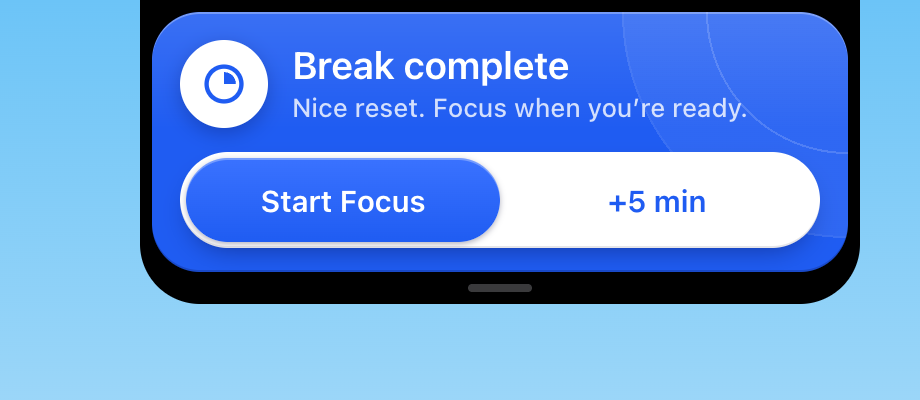
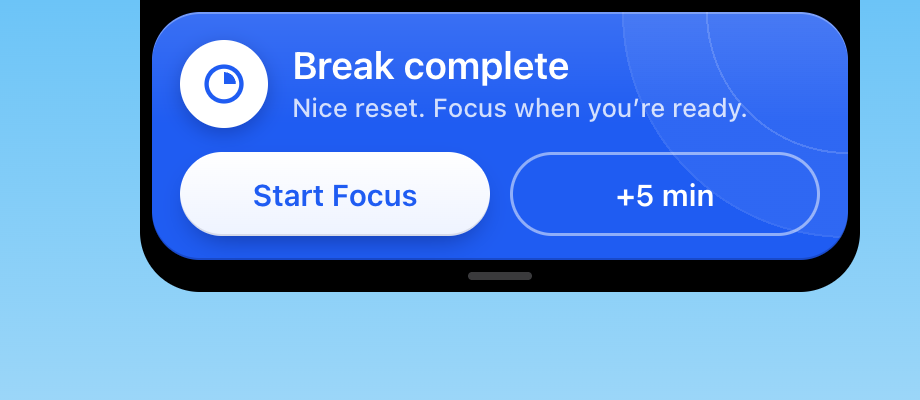
Separate buttons, notes under the clock, round-button menu
- Main and second actions are two separate buttons again (panel and Island)
- Status line under the player removed; short notes show under the clock
- Paused pill pulses smoothly
- Dashboard, Settings and Quit move into a menu at the top right
- Even 10px spacing between cards

Changed region(s): [[0.1522, 0.36, 0.9435, 0.78]]

diff --git a/src/panel.html b/src/panel.html
@@ -13,8 +13,6 @@
   --sheen:linear-gradient(rgba(255,255,255,.55),rgba(255,255,255,0) 55%);
   --bevel:inset 0 1px 0 rgba(255,255,255,.95),inset 0 -1px 0 rgba(20,40,90,.06),0 0 0 .5px rgba(20,40,90,.08),0 1px 2px rgba(20,40,90,.06),0 10px 24px -8px rgba(20,40,90,.16);
   --player:#1f5cf2;--playerIcon:#1f5cf2;--playerShadow:inset 0 1px 0 rgba(255,255,255,.35),0 0 0 .5px rgba(20,40,90,.15),0 16px 30px -12px rgba(31,92,242,.55);
-  --cap:#1f5cf2;--capInk:#fff;--capIn:linear-gradient(#fff,#f2f5fc);--capInInk:#1f5cf2;
-  --capShadow:inset 0 1px 0 rgba(255,255,255,.35),inset 0 -1px 0 rgba(0,0,40,.15),0 8px 18px -6px rgba(31,92,242,.55);--capInShadow:inset 0 1px 0 #fff,0 1px 3px rgba(0,0,40,.18);
   --chip:linear-gradient(#fff,#f1f3f8);--chipShadow:inset 0 1px 0 #fff,0 0 0 .5px rgba(20,40,90,.1),0 2px 6px rgba(20,40,90,.1);--trackBg:rgba(255,255,255,.7);--track:inset 0 1px 2px rgba(20,40,90,.12)}
 @media (prefers-color-scheme: dark){:root{
   --bg:#161616;--ink:#f2f2f2;--muted:#8a8a8a;--card:linear-gradient(#222,#1c1c1c);--line:rgba(255,255,255,.08);--field:#2a2a2a;
@@ -23,9 +21,7 @@
   --sheen:linear-gradient(rgba(255,255,255,.03),rgba(255,255,255,0) 55%);
   --bevel:inset 0 1px 0 rgba(255,255,255,.07),inset 0 -1px 0 rgba(0,0,0,.4),0 0 0 .5px rgba(255,255,255,.09),0 1px 2px rgba(0,0,0,.4),0 10px 24px -8px rgba(0,0,0,.6);
   --player:#1f1f1f;--playerIcon:#161616;--playerShadow:var(--bevel);
-  --cap:#f2f2f2;--capInk:#121212;--capIn:linear-gradient(#1f1f1f,#141414);--capInInk:#f2f2f2;
-  --capShadow:inset 0 1px 0 #fff,inset 0 -1px 0 rgba(0,0,0,.25),0 8px 18px -8px rgba(0,0,0,.8);--capInShadow:inset 0 1px 0 rgba(255,255,255,.08),0 1px 3px rgba(0,0,0,.5);
-  --chip:linear-gradient(#2a2a2a,#222);--chipShadow:inset 0 1px 0 rgba(255,255,255,.07),0 0 0 .5px rgba(255,255,255,.08);--trackBg:rgba(255,255,255,.08);--track:inset 0 1px 2px rgba(0,0,0,.5)}}
+  --chip:linear-gradient(#333,#272727);--chipShadow:inset 0 1px 0 rgba(255,255,255,.07),0 0 0 .5px rgba(255,255,255,.08);--trackBg:rgba(255,255,255,.08);--track:inset 0 1px 2px rgba(0,0,0,.5)}}
 *{box-sizing:border-box}
 html,body{margin:0;background:transparent;color:var(--ink);font:13px/1.35 -apple-system,BlinkMacSystemFont,system-ui,sans-serif;-webkit-font-smoothing:antialiased;-webkit-user-select:none;user-select:none;cursor:default}
 button{font:inherit;color:inherit;border:0;background:none;padding:0;cursor:pointer}
@@ -44,20 +40,33 @@ body.preview .panel{border-radius:20px;box-shadow:inset 0 1px 0 rgba(255,255,255
 .break .timecard,.breakPaused .timecard{background-color:var(--pBreak);--tag:var(--tBreak);--glow:120,200,80}
 .head{display:flex;justify-content:space-between;align-items:flex-start}
 .state{display:inline-flex;align-items:center;background:var(--tag);color:var(--tagInk);border-radius:99px;padding:4px 11px;font-size:12px;font-weight:600}
-.paused .state,.breakPaused .state{animation:blink 1.2s steps(2) infinite}
-@keyframes blink{50%{opacity:.45}}
+.paused .state,.breakPaused .state{animation:pulse 1.4s ease-in-out infinite alternate;will-change:opacity}
+@keyframes pulse{from{opacity:1}to{opacity:.4}}
 .time{display:block;text-align:left;font:600 52px/1.05 var(--round);letter-spacing:-.01em;font-variant-numeric:tabular-nums;margin-top:10px;color:var(--timeInk);border-radius:10px}
 .time.long{font-size:44px}
 .idle .time{cursor:pointer}
 .idle .time:hover{opacity:.75}
-.icon{width:36px;height:36px;border-radius:50%;display:grid;place-items:center;color:var(--muted);background:var(--chip);box-shadow:var(--chipShadow)}
-.icon:hover{color:var(--ink)}
-.icon svg{width:15px;height:15px}
+.icon{width:38px;height:38px;border-radius:50%;display:grid;place-items:center;color:var(--ink);background:var(--chip);box-shadow:var(--chipShadow)}
+.icon:hover{color:var(--accent)}
+.icon svg{width:17px;height:17px}
+/* the menu: the corner button turns into a close button and the others drop down under it */
+.menu{position:relative;z-index:10}
+.menu .x,.menu.open .dots{display:none}
+.menu.open .x{display:block}
+.menu.open #gear{box-shadow:var(--chipShadow),0 0 0 1.5px var(--accent)}
+.mlist{position:absolute;right:-6px;top:40px;display:flex;flex-direction:column;gap:8px;padding:6px;border-radius:99px;visibility:hidden;opacity:0;transform:translateY(-6px);transition:opacity .18s,transform .18s,visibility 0s .18s;
+  background:#eef1f7;box-shadow:inset 0 1px 0 #fff,0 0 0 .5px rgba(20,40,90,.12),0 14px 30px -8px rgba(20,40,90,.35)}
+@media (prefers-color-scheme: dark){.mlist{background:#161616;box-shadow:inset 0 1px 0 rgba(255,255,255,.06),0 0 0 .5px rgba(255,255,255,.1),0 14px 30px -8px rgba(0,0,0,.8)}}
+.menu.open .mlist{opacity:1;transform:none;transition:opacity .18s,transform .18s}
+.menu.open .mlist{visibility:visible}
+#quit:hover{color:#ff453a}
 #progWrap{margin-top:10px}
 .prog{height:6px;border-radius:9px;background:var(--trackBg);box-shadow:var(--track);overflow:hidden}
 .prog i{display:block;height:100%;width:0;border-radius:9px;background:var(--tag);transition:width .25s linear}
 /* Always one line tall, even when empty, so nothing below moves when the text comes and goes. */
 .progmeta{display:flex;justify-content:space-between;font-size:11.5px;line-height:15px;height:15px;color:var(--muted);font-weight:500;margin-top:6px;white-space:nowrap}
+.progmeta #note,.progmeta.noted span{display:none}
+.progmeta.noted #note{display:block;color:var(--ink);font-weight:600;overflow:hidden;text-overflow:ellipsis}
 
 /* the radio: a rounded square; the live video fills it, the controls float on top */
 .player{position:relative;height:244px;border-radius:24px;overflow:hidden;color:#fff;background:var(--player);box-shadow:var(--playerShadow)}
@@ -106,24 +115,19 @@ body.preview .panel{border-radius:20px;box-shadow:inset 0 1px 0 rgba(255,255,255
 .stations button span{color:var(--muted);font-variant-numeric:tabular-nums}
 .stations button[aria-current="true"]{font-weight:700;color:var(--accent)}
 
-/* message, buttons, stats */
-.msg{font-family:var(--round);font-size:14px;color:var(--muted);text-align:center;margin:4px 4px 0;min-height:19px;font-weight:500}
-/* One capsule: the main action is the filled part, a second action is a pill inside it. */
-.duo{display:flex;border-radius:99px;padding:3px;background:var(--cap);box-shadow:var(--capShadow);
-  background-image:linear-gradient(rgba(255,255,255,.2),rgba(255,255,255,0) 55%)}
-.duo button{flex:1;min-width:0;height:46px;border-radius:99px;font:600 16px var(--round);letter-spacing:-.01em}
-.duo .primary{color:var(--capInk)}
-.duo .secondary{background:var(--capIn);color:var(--capInInk);box-shadow:var(--capInShadow)}
+/* buttons: the main action solid blue, a second action a raised card-coloured pill beside it */
+.duo{display:grid;grid-auto-flow:column;grid-auto-columns:1fr;gap:10px}
+.duo button{min-width:0;height:46px;border-radius:99px;font:600 16px var(--round);letter-spacing:-.01em}
+.duo .primary{color:#fff;background:linear-gradient(#3a72ff,#1f5cf2);box-shadow:inset 0 1px 0 rgba(255,255,255,.3),inset 0 -1px 0 rgba(0,0,40,.15),0 8px 18px -8px rgba(31,92,242,.7)}
+.duo .secondary{color:var(--ink);background:var(--card);box-shadow:var(--bevel)}
+.duo .primary:hover{filter:brightness(1.06)}
+.duo .secondary:hover{color:var(--accent)}
 .duo button:active{transform:scale(.985)}
-.duo .primary:hover{opacity:.85}
 .stats{display:grid;grid-template-columns:repeat(3,1fr);gap:8px}
 .stat{border-radius:16px;padding:10px 12px;background:var(--card);box-shadow:var(--bevel)}
 .stat small{display:block;font-size:11px;color:var(--muted);font-weight:500}
 .stat b{display:block;font:600 19px var(--round);margin:2px 0 1px;font-variant-numeric:tabular-nums}
 .stat span{font-size:10.5px;color:var(--muted)}
-.foot{display:grid;grid-template-columns:1fr auto 1fr;font-size:12px;color:var(--muted);padding:2px 6px 2px}
-.foot button:hover{color:var(--ink)}
-.foot button:first-child{justify-self:start}.foot button:last-child{justify-self:end}
 
 /* questions (end of a block or break), shown here when the panel is open, otherwise in the Island under the notch */
 .ask{display:flex;flex-direction:column;gap:9px;border-radius:20px;padding:13px;background:var(--card);box-shadow:var(--bevel)}
@@ -145,9 +149,16 @@ body.preview .panel{border-radius:20px;box-shadow:inset 0 1px 0 rgba(255,255,255
   <div class="head">
     <div><div class="state"><i></i><span id="state">Pomodoro</span></div>
       <button class="time" id="time" type="button" title="Click to switch: Count up, 30, 60 or 90 minutes">30:00</button></div>
-    <button class="icon" id="gear" type="button" title="Settings"><svg viewBox="0 0 24 24" fill="none" stroke="currentColor" stroke-width="2"><circle cx="12" cy="12" r="3"/><path d="M19.4 15a1.7 1.7 0 0 0 .3 1.8l.1.1a2 2 0 1 1-2.8 2.8l-.1-.1a1.7 1.7 0 0 0-1.8-.3 1.7 1.7 0 0 0-1 1.5V21a2 2 0 1 1-4 0v-.1a1.7 1.7 0 0 0-1.1-1.5 1.7 1.7 0 0 0-1.8.3l-.1.1a2 2 0 1 1-2.8-2.8l.1-.1a1.7 1.7 0 0 0 .3-1.8 1.7 1.7 0 0 0-1.5-1H3a2 2 0 1 1 0-4h.1A1.7 1.7 0 0 0 4.6 9a1.7 1.7 0 0 0-.3-1.8l-.1-.1a2 2 0 1 1 2.8-2.8l.1.1a1.7 1.7 0 0 0 1.8.3H9a1.7 1.7 0 0 0 1-1.5V3a2 2 0 1 1 4 0v.1a1.7 1.7 0 0 0 1 1.5 1.7 1.7 0 0 0 1.8-.3l.1-.1a2 2 0 1 1 2.8 2.8l-.1.1a1.7 1.7 0 0 0-.3 1.8V9a1.7 1.7 0 0 0 1.5 1H21a2 2 0 1 1 0 4h-.1a1.7 1.7 0 0 0-1.5 1z"/></svg></button>
+    <div class="menu" id="menu">
+      <button class="icon" id="gear" type="button" title="Menu"><svg class="dots" viewBox="0 0 24 24" fill="currentColor"><circle cx="5" cy="12" r="2"/><circle cx="12" cy="12" r="2"/><circle cx="19" cy="12" r="2"/></svg><svg class="x" viewBox="0 0 24 24" fill="none" stroke="currentColor" stroke-width="2.4" stroke-linecap="round"><path d="M6 6l12 12M18 6 6 18"/></svg></button>
+      <div class="mlist">
+        <button class="icon" id="openLog" type="button" title="Dashboard"><svg viewBox="0 0 24 24" fill="currentColor"><rect x="4" y="11" width="3.4" height="8" rx="1"/><rect x="10.3" y="5" width="3.4" height="14" rx="1"/><rect x="16.6" y="8" width="3.4" height="11" rx="1"/></svg></button>
+        <button class="icon" id="openSettings" type="button" title="Settings"><svg viewBox="0 0 24 24" fill="none" stroke="currentColor" stroke-width="2"><circle cx="12" cy="12" r="3"/><path d="M19.4 15a1.7 1.7 0 0 0 .3 1.8l.1.1a2 2 0 1 1-2.8 2.8l-.1-.1a1.7 1.7 0 0 0-1.8-.3 1.7 1.7 0 0 0-1 1.5V21a2 2 0 1 1-4 0v-.1a1.7 1.7 0 0 0-1.1-1.5 1.7 1.7 0 0 0-1.8.3l-.1.1a2 2 0 1 1-2.8-2.8l.1-.1a1.7 1.7 0 0 0 .3-1.8 1.7 1.7 0 0 0-1.5-1H3a2 2 0 1 1 0-4h.1A1.7 1.7 0 0 0 4.6 9a1.7 1.7 0 0 0-.3-1.8l-.1-.1a2 2 0 1 1 2.8-2.8l.1.1a1.7 1.7 0 0 0 1.8.3H9a1.7 1.7 0 0 0 1-1.5V3a2 2 0 1 1 4 0v.1a1.7 1.7 0 0 0 1 1.5 1.7 1.7 0 0 0 1.8-.3l.1-.1a2 2 0 1 1 2.8 2.8l-.1.1a1.7 1.7 0 0 0-.3 1.8V9a1.7 1.7 0 0 0 1.5 1H21a2 2 0 1 1 0 4h-.1a1.7 1.7 0 0 0-1.5 1z"/></svg></button>
+        <button class="icon" id="quit" type="button" title="Quit Focus MN"><svg viewBox="0 0 24 24" fill="none" stroke="currentColor" stroke-width="2.4" stroke-linecap="round"><path d="M12 3.5v8"/><path d="M7 6.3a7.5 7.5 0 1 0 10 0"/></svg></button>
+      </div>
+    </div>
   </div>
-  <div id="progWrap"><div class="prog"><i id="prog"></i></div><div class="progmeta"><span id="progA"></span><span id="progB"></span></div></div>
+  <div id="progWrap"><div class="prog"><i id="prog"></i></div><div class="progmeta" id="progmeta"><span id="progA"></span><span id="progB"></span><span id="note"></span></div></div>
   </div>
 
   <div class="player" id="disc">
@@ -169,7 +180,6 @@ body.preview .panel{border-radius:20px;box-shadow:inset 0 1px 0 rgba(255,255,255
   </div>
   <div class="stations" id="stations" hidden role="menu"></div>
 
-  <div class="msg" id="msg"></div>
   <div class="actions" id="actions"></div>
   <div class="ask" id="ask" hidden>
     <h2 id="askTitle"></h2><p id="askText"></p>
@@ -183,7 +193,6 @@ body.preview .panel{border-radius:20px;box-shadow:inset 0 1px 0 rgba(255,255,255
     <div class="stat"><small>Streak</small><b id="tStreak">0</b><span>days</span></div>
     <div class="stat"><small>This week</small><b id="tWeek">0m</b><span id="tWeekN">0 sessions</span></div>
   </div>
-  <div class="foot"><button type="button" id="openLog">Dashboard</button><button type="button" id="openSettings">Settings</button><button type="button" id="quit">Quit</button></div>
 </div>
 
 <script>
@@ -207,7 +216,6 @@ const MIN_LOG = 60e3, DAY = 864e5, MIN = 60e3;
 // Pomodoro blocks and the break that follows each.
 const BLOCKS = [30, 60, 90], BREAK_FOR = {30: 5, 60: 15, 90: 20}, KEEP_GOING = 30;
 const breakFor = min => (BREAK_FOR[min] || 5) * MIN;
-const STATUS = {idle: 'Ready when you are.', running: 'Time for deep work!', paused: 'Paused. Resume when you’re back.', break: 'Take a short break.', breakPaused: 'Break paused.'};
 
 // In the app, data lives in files the app reads and writes; in a browser it uses localStorage.
 const NATIVE = !!window.__NATIVE;
@@ -248,7 +256,8 @@ const plural = (n, w) => `${n} ${w}${n === 1 ? '' : 's'}`;
 let noteTimer = 0, note = '';
 // A short note replaces the status line for a few seconds.
 function say(text, hold = 5000) { note = text; clearTimeout(noteTimer); noteTimer = setTimeout(() => { note = ''; renderMsg(); }, hold); renderMsg(); }
-function renderMsg() { $('#msg').textContent = note || STATUS[S.status]; }
+// Short notes replace the line under the clock for a few seconds.
+function renderMsg() { $('#note').textContent = note; $('#progmeta').classList.toggle('noted', !!note); }
 
 /* ---------- focus and breaks ---------- */
 function beginFocus() {
@@ -265,8 +274,8 @@ function endFocus() {
   Object.assign(S, {status: 'idle', acc: 0, carry: 0, chained: false, segStart: 0, startedAt: 0});
   saveState(); render();
   if (pomo && chained) { pending = {start: st, end: Date.now(), ms: total}; afterTopic = 'next'; present(N.chainEnd()); return; }
-  if (pomo) say('Pomodoro ended early, so it wasn’t logged.');
-  else if (total < MIN_LOG) say('Under a minute, so it wasn’t logged.');
+  if (pomo) say('Ended early, so not logged.');
+  else if (total < MIN_LOG) say('Under 1 min, so not logged.');
   else { pending = {start: st, end: Date.now(), ms: total}; afterTopic = ''; present(N.topic()); return; }
 }
 function startBreak(len) {
@@ -349,7 +358,7 @@ function present(n) {
   renderAsk();
   native({type: 'notice', notice});
 }
-window.panelVisible = open => { panelOpen = open; renderAsk(); if (!open && notice) native({type: 'notice', notice}); };
+window.panelVisible = open => { panelOpen = open; if (!open) menu(false); renderAsk(); if (!open && notice) native({type: 'notice', notice}); };
 function renderAsk() {
   const show = !!notice && panelOpen;
   $('#ask').hidden = !show; $('#actions').hidden = show;
@@ -371,7 +380,7 @@ window.noticeAction = (id, topic) => {
       if (id === 'save') { saveLogs(); renderStats(); }
       pending = null;
       if (afterTopic === 'next') present(N.next());
-      else { present(null); say(id === 'save' ? 'Good job!' : 'Session discarded.', 3500); }
+      else { present(null); say(id === 'save' ? 'Saved. Good job!' : 'Discarded.', 3500); }
       break;
     case 'break': present(null); startBreak(breakFor(S.pomoMin)); break;
     case 'focus': present(null); beginFocus(); break;
@@ -434,7 +443,6 @@ function render() {
     break: [['Pause', pauseBreak, 1], ['Skip break', skipBreak]],
     breakPaused: [['Resume', resumeBreak, 1], ['Start Focus', beginFocus]],
   }[st];
-  // One capsule: the main action filled, a second action as a pill inside it.
   $('#actions').innerHTML = `<div class="duo">${B.map((b, i) => `<button type="button" class="${i ? 'secondary' : 'primary'}" data-i="${i}">${b[0]}</button>`).join('')}</div>`;
   $('#actions').onclick = e => { const b = e.target.closest('button'); if (b) B[+b.dataset.i][1](); };
   native({type: 'status', status: st});
@@ -507,7 +515,7 @@ function unmuteYT() { if (!yt || !yt.isMuted) return; if (yt.isMuted()) yt.unMut
 async function playYT(id) {
   const player = await makePlayer();
   if (!radioOn) return;
-  if (!player) { say('YouTube didn’t load. Check your connection.'); return; }
+  if (!player) { say('Radio didn’t load. Check your connection.'); return; }
   player.unMute(); player.setVolume(Math.round(S.vol * 100)); player.loadVideoById(id);
 }
 function resolveStation(i) { const st = STATIONS[i]; if (st.ch) native({type: 'resolve', i, ch: st.ch, match: st.match}); }
@@ -519,8 +527,8 @@ function ytResolved(i, id) {
 }
 function ytFailed() {
   const st = STATIONS[S.station];
-  if (NATIVE && st.ch && !retried[st.name]) { retried[st.name] = true; say(`Finding ${st.name}’s live stream…`); resolveStation(S.station); }
-  else say(`${st.name} isn’t live right now. Try another station.`);
+  if (NATIVE && st.ch && !retried[st.name]) { retried[st.name] = true; say('Finding the live stream…'); resolveStation(S.station); }
+  else say('Station offline. Try another.');
 }
 function showStation() {
   const st = STATIONS[S.station];
@@ -571,20 +579,24 @@ $('#vol').addEventListener('pointerup', saveState);
 
 /* ---------- controls ---------- */
 $('#time').onclick = cycleMode;
-$('#gear').onclick = $('#openSettings').onclick = () => native({type: 'openDashboard', tab: 'settings'});
-$('#openLog').onclick = () => native({type: 'openDashboard', tab: 'stats'});
+// The menu: round buttons that drop down under the corner button.
+const menu = open => $('#menu').classList.toggle('open', open);
+$('#gear').onclick = e => { e.stopPropagation(); menu(!$('#menu').classList.contains('open')); };
+$('#openSettings').onclick = () => { menu(false); native({type: 'openDashboard', tab: 'settings'}); };
+$('#openLog').onclick = () => { menu(false); native({type: 'openDashboard', tab: 'stats'}); };
 $('#quit').onclick = () => native({type: 'quit'});
+addEventListener('click', e => { if (!e.target.closest('#menu')) menu(false); });
 addEventListener('keydown', e => {
   if (e.target.tagName === 'INPUT') return;
   if (e.code === 'Space') { e.preventDefault(); start(); }
-  if (e.key === 'Escape') native({type: 'hidePanel'});
+  if (e.key === 'Escape') { if ($('#menu').classList.contains('open')) menu(false); else native({type: 'hidePanel'}); }
 });
 // The app's window follows the panel's height.
 new ResizeObserver(() => native({type: 'resize', h: Math.ceil($('#panel').getBoundingClientRect().height)})).observe($('#panel'));
 
 /* ---------- boot ---------- */
 showStation(); drawVol(); render();
-if (restored) say('Timer paused while the app was closed. Press Resume.', 10000);
+if (restored) say('Paused while the app was closed.', 10000);
 if (NATIVE) { STATIONS.forEach((st, i) => { if (st.ch) setTimeout(() => resolveStation(i), 400 * i); }); makePlayer(); }
 setInterval(tick, 250);
 setInterval(() => { if (S.status === 'running') saveState(); }, 5000);

diff --git a/src/island.html b/src/island.html
@@ -29,10 +29,10 @@ input.shake{animation:shake .3s}
 .chips:empty{display:none}
 .chips button{background:rgba(255,255,255,.16);color:#fff;border:0;border-radius:99px;padding:5px 11px;font:500 12px -apple-system,system-ui;cursor:pointer;max-width:200px;white-space:nowrap;overflow:hidden;text-overflow:ellipsis;box-shadow:inset 0 1px 0 rgba(255,255,255,.2)}
 .chips button:hover{background:rgba(255,255,255,.26)}
-/* One white capsule; the main action is the blue pill inside it. */
-.btns{display:flex;background:#fff;border-radius:99px;padding:3px;margin-top:2px;box-shadow:inset 0 -1px 0 rgba(0,0,40,.1),0 6px 14px -6px rgba(0,0,40,.45)}
-.btns button{flex:1;border:0;border-radius:99px;height:42px;font:600 15px ui-rounded,-apple-system,system-ui;cursor:pointer;background:transparent;color:#1f5cf2}
-.btns .primary{background:linear-gradient(#3a72ff,#1f5cf2);color:#fff;box-shadow:inset 0 1px 0 rgba(255,255,255,.3),0 1px 3px rgba(0,0,40,.3)}
+/* Two buttons: the main action a white pill, the other an outlined pill. */
+.btns{display:grid;grid-auto-flow:column;grid-auto-columns:1fr;gap:10px;margin-top:2px}
+.btns button{border:0;border-radius:99px;height:42px;font:600 15px ui-rounded,-apple-system,system-ui;cursor:pointer;background:transparent;color:#fff;box-shadow:inset 0 0 0 1.5px rgba(255,255,255,.5)}
+.btns .primary{background:linear-gradient(#fff,#eef3ff);color:#1f5cf2;box-shadow:inset 0 -1px 0 rgba(0,0,40,.1),0 6px 14px -6px rgba(0,0,40,.45)}
 .btns button:active{transform:scale(.97)}
 .handle{width:32px;height:4px;border-radius:9px;background:#3a3a3c;margin:6px auto 0}
 </style>

diff --git a/CONTRIBUTING.md b/CONTRIBUTING.md
@@ -31,7 +31,8 @@
 - Look: light mode is a soft blue-grey with pastel cards (cream when ready, blue while focusing, green on a break) and blue accents (`#1f5cf2`); dark mode is near-black (`#161616`) with a soft glow of the state's colour. Both use the same bevel: a lit top edge, a soft lower edge and a shadow below each card. Big numbers use the rounded system font (`ui-rounded`).
 - Clicking the time cycles count up → Pomodoro 30 → 60 → 90. Breaks: 5, 15 and 20 minutes (`BREAK_FOR`); a break started from count up is 5 minutes. Naming: **the Island** is the black box with the blue card under the notch; **notifications** are macOS's own (the idle nudge, updates).
 - Buttons by state: idle *Start Focus*; focusing *Pause*; paused *Resume, End focus*; break *Pause, Skip break*; break paused *Resume, Start Focus*. There is no manual break: breaks aren't logged, so ending focus and starting again later does the same. A break is only offered after a finished Pomodoro block.
-- Buttons are one capsule (`.duo`): the main action is the filled part, a second action is a pill inside it.
+- Buttons sit side by side (`.duo`): the main action solid blue, a second one a raised pill.
+- Short notes ("Under 1 min, so not logged.") replace the line under the clock for a few seconds (`say()`). Dashboard, Settings and Quit are in the round-button menu at the top right of the timer card.
 - A finished block asks *Log it / Keep going*. Log it asks the topic, then *Take break / Start Focus*. Keep going adds a 30-minute block, logged as one session with the first; ending it early asks *Log it / Keep going* again.
 - Ending a Pomodoro early isn't logged; count-up under a minute isn't logged; breaks aren't logged. A finished break asks *Start Focus / +5 min*.
 - A session running when the app quits comes back paused, counting time up to the last save.

diff --git a/README.md b/README.md
@@ -45,7 +45,7 @@ A focus timer and lofi radio that lives in your Mac's menu bar. Click the time i
    xattr -cr "/Applications/Focus MN.app"
    ```
 
-Focus MN has no Dock icon: look for the timer icon in the menu bar. Right-click it for a small menu (Dashboard, Settings, Check for Updates, Quit).
+Focus MN has no Dock icon: look for the timer icon in the menu bar. Right-click it for a small menu (Dashboard, Settings, Check for Updates, Quit); in the panel, the round button at the top right opens Dashboard, Settings and Quit.
 
 ## Updates
 
